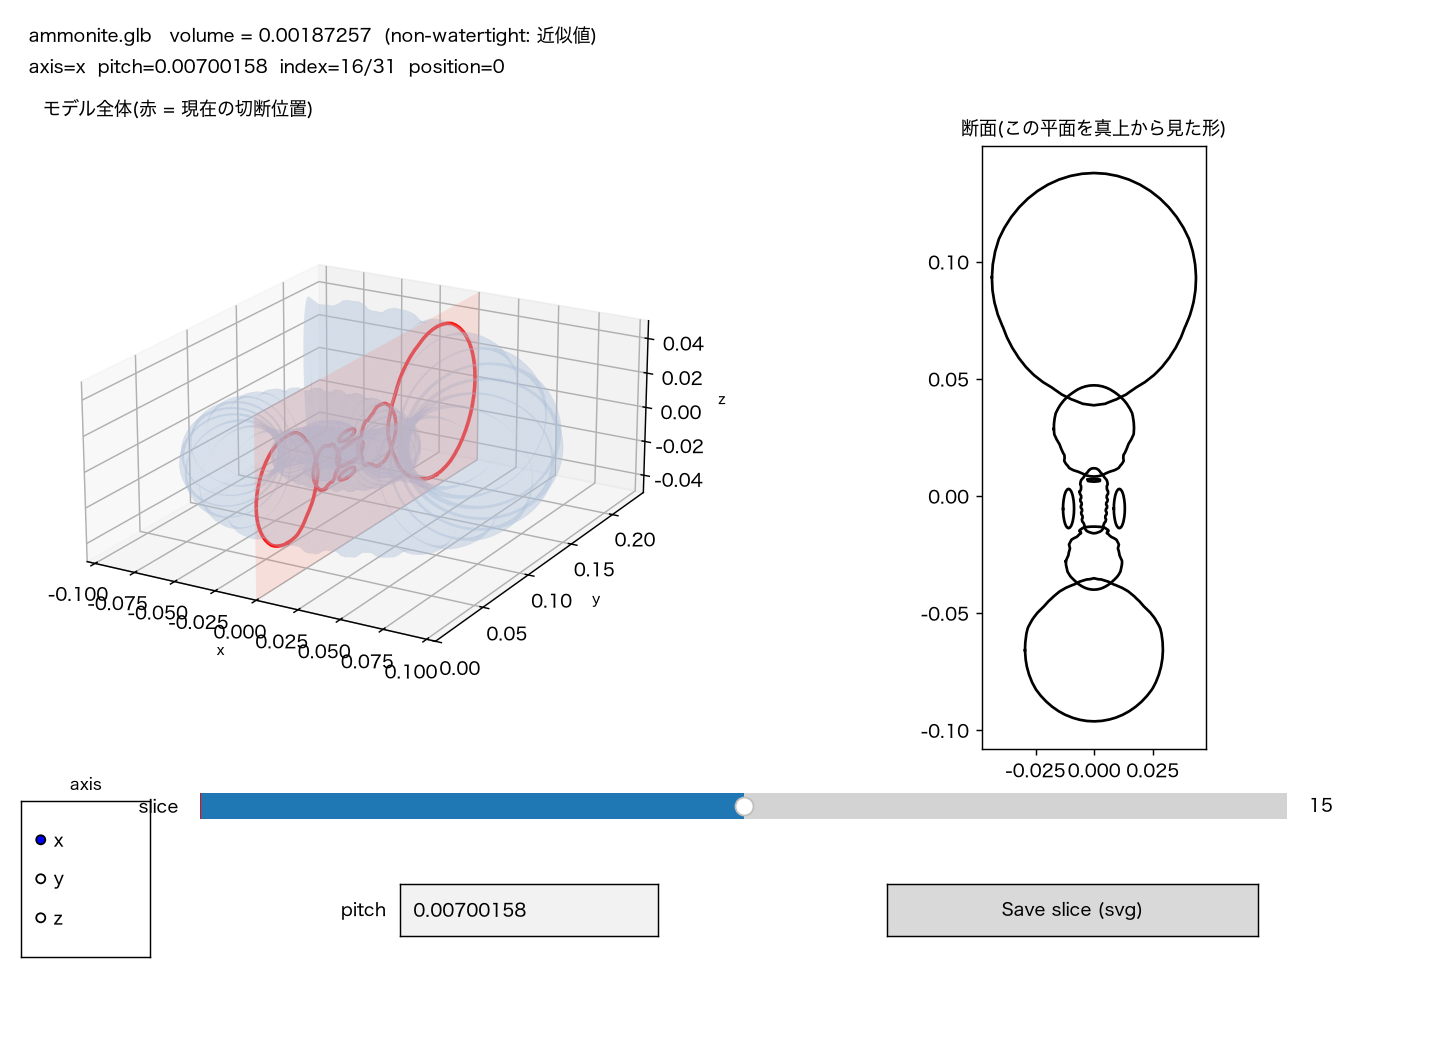
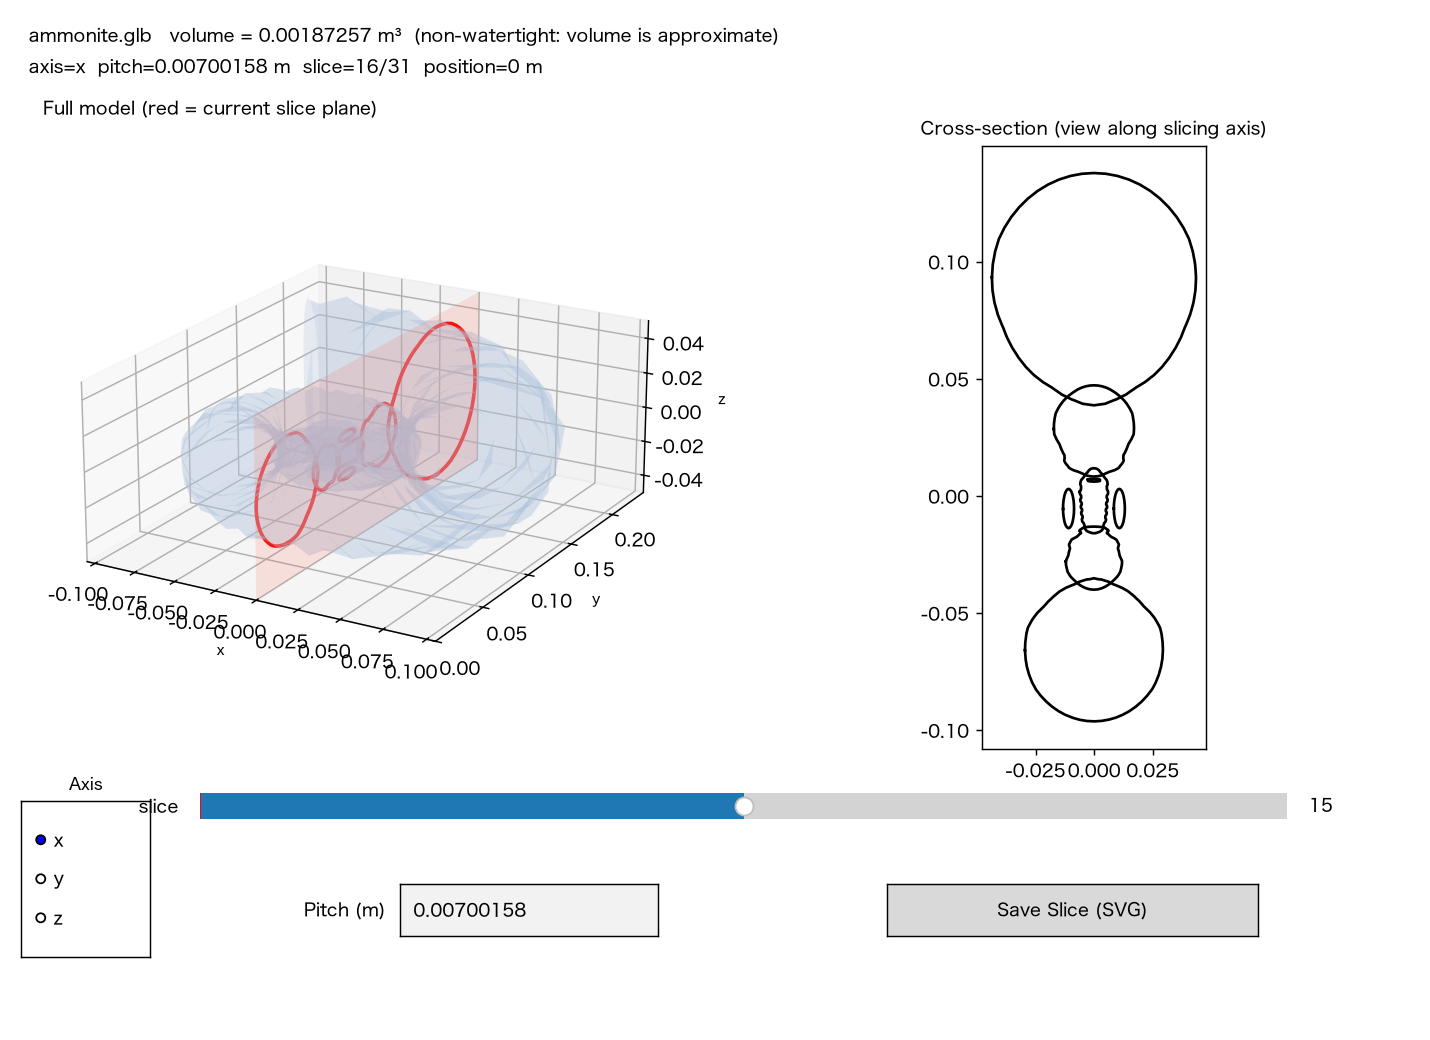
Unify GUI display to English and add unit labels
ウィンドウ内表示を英語に統一。glTF/GLBは仕様上メートル単位なので拡張子から自動でm表示し、それ以外はunitsを明示指定できるようにした。

hide

diff --git a/src/slice3d/gui.py b/src/slice3d/gui.py
@@ -7,6 +7,8 @@
 
     slice3d-gui model.stl
     slice3d-gui model.stl --axis x --pitch 0.01
+    slice3d-gui model.glb              # glTF/GLBは仕様上メートル単位なので自動で"m"表示
+    slice3d-gui model.stl --units mm   # STLなど単位不明な形式は明示的に指定
 
 matplotlib が必要 (``pip install "slice3d[gui]"``)。
 """
@@ -47,6 +49,14 @@ plt.rcParams["axes.unicode_minus"] = False
 # (スライス計算自体は元メッシュの精度で行われ、この簡略化は3D表示にのみ影響する)
 _MAX_PREVIEW_FACES = 4_000
 
+# glTF/GLBは仕様上メートル単位と定められているため、既定値として表示に使う。
+# STL/OBJ/PLYなどは単位の情報を持たないファイル形式なので、既定は単位なし(空文字)。
+_UNITS_BY_EXTENSION = {".glb": "m", ".gltf": "m"}
+
+
+def _default_units(model_path: Path) -> str:
+    return _UNITS_BY_EXTENSION.get(model_path.suffix.lower(), "")
+
 
 class SliceViewer:
     """3D表示 + スライダーで断面を切り替えながら確認するmatplotlibウィンドウ。"""
@@ -57,12 +67,14 @@ class SliceViewer:
         axis: str = "z",
         pitch: float | None = None,
         max_preview_faces: int = _MAX_PREVIEW_FACES,
+        units: str | None = None,
     ):
         self.model_path = Path(model_path)
         self.mesh = core.load_mesh(self.model_path)
         self.axis = axis
         self.volume = float(self.mesh.volume)
         self.max_preview_faces = max_preview_faces
+        self.units = _default_units(self.model_path) if units is None else units
 
         if pitch is None:
             extent = self.mesh.extents[core.AXES[axis]]
@@ -76,6 +88,15 @@ class SliceViewer:
 
         self._build_ui()
         self._recompute_slices()
+
+    # ---- 表示用フォーマット ----
+    def _fmt_length(self, value: float) -> str:
+        suffix = f" {self.units}" if self.units else ""
+        return f"{value:.6g}{suffix}"
+
+    def _fmt_volume(self, value: float) -> str:
+        suffix = f" {self.units}³" if self.units else ""
+        return f"{value:.6g}{suffix}"
 
     # ---- データ ----
     def _recompute_slices(self) -> None:
@@ -126,30 +147,31 @@ class SliceViewer:
 
         self.ax_section = self.fig.add_axes((0.55, 0.28, 0.43, 0.58))
         self.ax_section.set_aspect("equal")
-        self.ax_section.set_title("断面(この平面を真上から見た形)", fontsize=10)
+        self.ax_section.set_title("Cross-section (view along slicing axis)", fontsize=10)
 
-        watertight_note = "" if self.mesh.is_watertight else "  (non-watertight: 近似値)"
+        watertight_note = "" if self.mesh.is_watertight else "  (non-watertight: volume is approximate)"
         self.fig.text(
             0.02, 0.975,
-            f"{self.model_path.name}   volume = {self.volume:.6g}{watertight_note}",
+            f"{self.model_path.name}   volume = {self._fmt_volume(self.volume)}{watertight_note}",
             fontsize=10, va="top",
         )
         self.pos_text = self.fig.text(0.02, 0.945, "", fontsize=10, va="top")
         self.fig.text(
-            0.03, 0.905, "モデル全体(赤 = 現在の切断位置)", fontsize=10, va="top"
+            0.03, 0.905, "Full model (red = current slice plane)", fontsize=10, va="top"
         )
 
         ax_radio = self.fig.add_axes((0.015, 0.08, 0.09, 0.15))
-        ax_radio.set_title("axis", fontsize=9)
+        ax_radio.set_title("Axis", fontsize=9)
         self.radio = RadioButtons(ax_radio, ("x", "y", "z"), active="xyz".index(self.axis))
         self.radio.on_clicked(self._on_axis_change)
 
+        pitch_label = f"Pitch ({self.units})  " if self.units else "Pitch  "
         ax_pitch = self.fig.add_axes((0.28, 0.1, 0.18, 0.05))
-        self.pitch_box = TextBox(ax_pitch, "pitch  ", initial=f"{self.pitch:g}")
+        self.pitch_box = TextBox(ax_pitch, pitch_label, initial=f"{self.pitch:g}")
         self.pitch_box.on_submit(self._on_pitch_submit)
 
         ax_save = self.fig.add_axes((0.62, 0.1, 0.26, 0.05))
-        self.save_button = Button(ax_save, "Save slice (svg)")
+        self.save_button = Button(ax_save, "Save Slice (SVG)")
         self.save_button.on_clicked(self._on_save)
 
         self.ax_slider = self.fig.add_axes((0.14, 0.2, 0.76, 0.05))
@@ -236,13 +258,13 @@ class SliceViewer:
         index = int(self.slider.val)
         path_2d, _discrete_3d = self._section_at(index)
         if path_2d is None:
-            print("この位置は交差なしのため保存できません")
+            print("Cannot save: no intersection at this slice position")
             return
         outdir = self.model_path.parent / "slices_gui"
         outdir.mkdir(exist_ok=True)
         outpath = outdir / f"{self.model_path.stem}_{self.axis}{index:04d}_{self.heights[index]:.4f}.svg"
         core.save_section(path_2d, outpath)
-        print(f"保存しました: {outpath}")
+        print(f"Saved: {outpath}")
 
     # ---- 描画 ----
     def _show_index(self, index: int) -> None:
@@ -254,18 +276,18 @@ class SliceViewer:
 
         self.ax_section.clear()
         self.ax_section.set_aspect("equal")
-        self.ax_section.set_title("断面(この平面を真上から見た形)", fontsize=10)
+        self.ax_section.set_title("Cross-section (view along slicing axis)", fontsize=10)
         if path_2d is None:
             self.ax_section.text(
-                0.5, 0.5, "交差なし", ha="center", va="center", transform=self.ax_section.transAxes
+                0.5, 0.5, "No intersection", ha="center", va="center", transform=self.ax_section.transAxes
             )
         else:
             for polyline in path_2d.discrete:
                 self.ax_section.plot(polyline[:, 0], polyline[:, 1], "-k")
 
         self.pos_text.set_text(
-            f"axis={self.axis}  pitch={self.pitch:g}  "
-            f"index={index + 1}/{len(self.heights)}  position={position:.6g}"
+            f"axis={self.axis}  pitch={self._fmt_length(self.pitch)}  "
+            f"slice={index + 1}/{len(self.heights)}  position={self._fmt_length(position)}"
         )
         self.fig.canvas.draw_idle()
 
@@ -275,16 +297,27 @@ class SliceViewer:
 
 def parse_args(argv: list[str] | None = None) -> argparse.Namespace:
     parser = argparse.ArgumentParser(
-        prog="slice3d-gui", description="3Dモデルの断面・体積を確認するGUIビューア"
+        prog="slice3d-gui", description="Interactive GUI viewer for a 3D model's volume and slices"
     )
-    parser.add_argument("model", type=Path, help="入力3Dモデルファイル (STL/OBJ/PLY/GLBなど)")
-    parser.add_argument("--axis", choices=tuple(core.AXES), default="z", help="初期のスライス軸")
-    parser.add_argument("--pitch", type=float, default=None, help="初期のスライス間隔(既定: 全体を約30分割)")
+    parser.add_argument("model", type=Path, help="input 3D model file (STL/OBJ/PLY/GLB, etc.)")
+    parser.add_argument("--axis", choices=tuple(core.AXES), default="z", help="initial slicing axis")
+    parser.add_argument(
+        "--pitch", type=float, default=None, help="initial slice spacing (default: ~30 slices across the model)"
+    )
+    parser.add_argument(
+        "--units",
+        type=str,
+        default=None,
+        help='length unit label to display next to values, e.g. "m" or "mm". '
+        'Defaults to "m" for glTF/GLB files (meters by spec) and no unit otherwise; '
+        'pass --units "" to force no unit label.',
+    )
     parser.add_argument(
         "--max-preview-faces",
         type=int,
         default=_MAX_PREVIEW_FACES,
-        help=f"3D表示を間引く面数の上限(既定: {_MAX_PREVIEW_FACES})。動作が重い場合は小さくすると軽くなる",
+        help=f"max face count for the 3D preview mesh (default: {_MAX_PREVIEW_FACES}); "
+        "lower this if the 3D view feels slow",
     )
     return parser.parse_args(argv)
 
@@ -292,7 +325,11 @@ def parse_args(argv: list[str] | None = None) -> argparse.Namespace:
 def main(argv: list[str] | None = None) -> None:
     args = parse_args(argv)
     viewer = SliceViewer(
-        args.model, axis=args.axis, pitch=args.pitch, max_preview_faces=args.max_preview_faces
+        args.model,
+        axis=args.axis,
+        pitch=args.pitch,
+        max_preview_faces=args.max_preview_faces,
+        units=args.units,
     )
     viewer.show()
 

diff --git a/README.md b/README.md
@@ -50,16 +50,22 @@ slice3d model.stl --axis z --pitch 2.0 --outdir slices --format svg
 pip install "slice3d[gui]"
 slice3d-gui model.stl
 slice3d-gui model.stl --axis x --pitch 0.01
+slice3d-gui model.glb              # glTF/GLBは仕様上メートル単位なので自動で"m"表示
+slice3d-gui model.stl --units mm   # STLなど単位不明な形式は明示的に指定
 ```
 
 ![GUIビューア](docs/assets/gui_screenshot.png)
+
+ウィンドウ内の表示は(体積・軸・数値など)すべて英語で統一しています。
 
 - ウィンドウ上部にモデル名・体積(`mesh.volume`、非watertightなら近似値である旨も表示)
 - 左側にモデル全体を半透明の3D表示。現在の切断位置を赤い平面と断面の輪郭線で重ねて表示するので、どこをどの向きで切っているか一目で分かる
 - 右側にその断面(切断面を真上から見た2D形状)をリアルタイム表示
 - スライダーでスライス位置(index / position)を切り替え
-- `axis` ラジオボタンでスライス軸を切り替え(切り替え時はpitchが軸の全長に応じて自動再設定される)
-- `pitch` テキストボックスで間隔を指定して Enter → 断面数が再計算される
+- `Axis` ラジオボタンでスライス軸を切り替え(切り替え時はpitchが軸の全長に応じて自動再設定される)
+- `Pitch` テキストボックスで間隔を指定して Enter → 断面数が再計算される
+- 体積・pitch・positionの表示には単位が付く。glTF/GLB(`.glb` / `.gltf`)は仕様上メートル単位と定められているため自動で`m`が付き、STL/OBJ/PLYなど単位情報を持たない形式は既定で単位なし
+  - `--units`(例: `mm`, `cm`)で表示単位を明示指定できる。`--units ""` で単位表示を消すことも可能
 - `Save slice (svg)` ボタンで現在表示中の断面を `<モデルと同じディレクトリ>/slices_gui/` にSVG保存
 
 ## ライブラリとして使う
